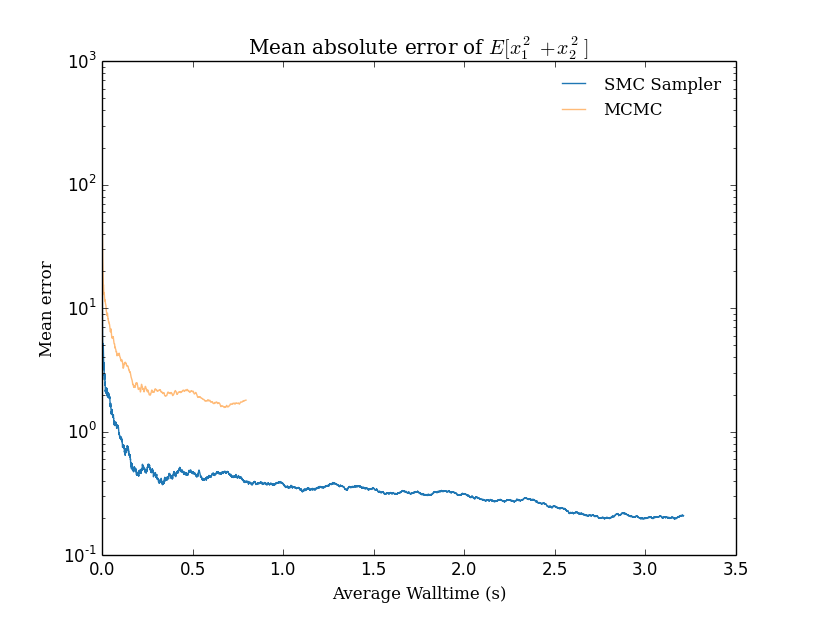
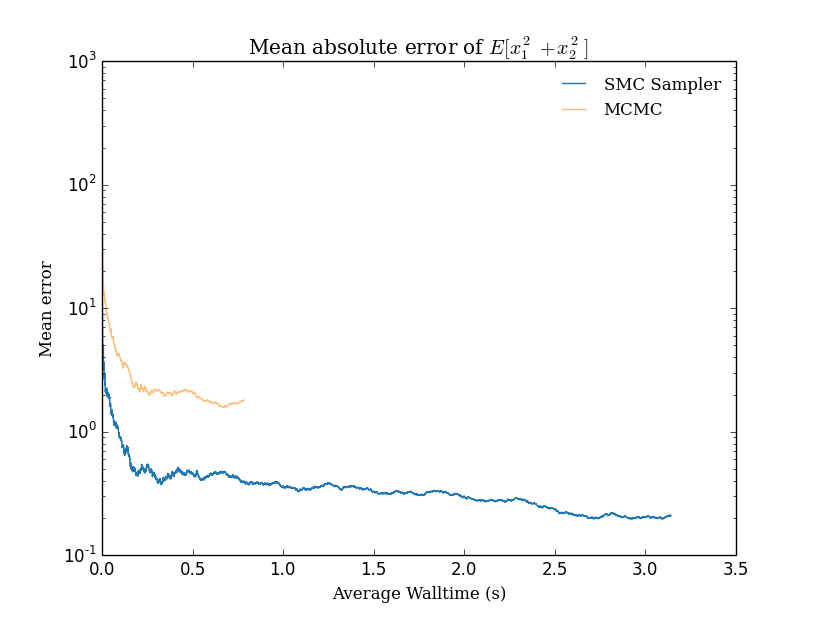
Results update

diff --git a/Report/520A_report.tex b/Report/520A_report.tex
@@ -229,14 +229,17 @@ To test performance in higher dimensions we followed the same approach of buildi
 \[
 f(x_i) = \prod_i \sum_j w_{ij} \exp(-(x_i - \mu_{ij})^2/2s_{ij})
 \]
-where $w_ij$, $\mu_ij$ and $s_{ij}$ were sampled randomly with a fixed seed. This allowed us to build multimodal functions in arbitrarily high dimensional spaces. However, in order integrate symbolically, we limited the experiments to two dimensions. 
+where $w_ij$, $\mu_ij$ and $s_{ij}$ were sampled randomly with a fixed seed. This allowed us to build multimodal functions in arbitrarily high dimensional spaces. However, in order integrate symbolically and keep CPU manageable, we limited our experiments to two dimensions. 
 
+Figure \ref{multi_particles} plots the mean absolute error by the number of particles used. Here the annealing steps taken by the SMC Sampler show their utility. It achieves far lower error rates and consistently outperforms across the range of particles.
+
+This improved performance does come at the expense of longer wall time, but as Figure $\ref{multi_walltime}$ demonstrates, most of the error reduction is achieved in the first 0.2 seconds, and at every time step, the SMC Sampler outperforms MCMC on this example.
 
 \begin{figure}[htbp]
 \begin{center}
 \includegraphics[width = \textwidth]{plots/2d-errors.png}
 \caption{Performance by number of particles of the two samplers in estimating $E[x_1^2 + x_2^2]$}
-\label{ex2}
+\label{multi_particles}
 \end{center}
 \end{figure}
 
@@ -244,7 +247,7 @@ where $w_ij$, $\mu_ij$ and $s_{ij}$ were sampled randomly with a fixed seed. Thi
 \begin{center}
 \includegraphics[width = \textwidth]{plots/2d-errors_walltime.png}
 \caption{Performance by number of particles of the two samplers in estimating $E[x_1^2 + x_2^2]$ by the average amount of time taken in seconds}
-\label{ex}
+\label{multi_walltime}
 \end{center}
 \end{figure}
 
